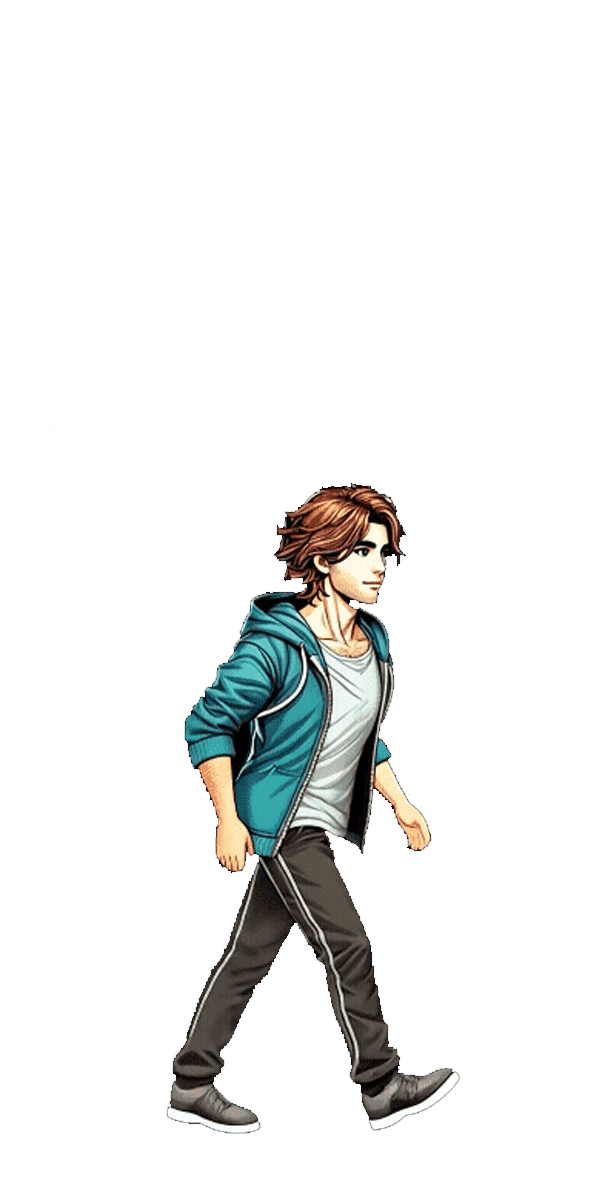
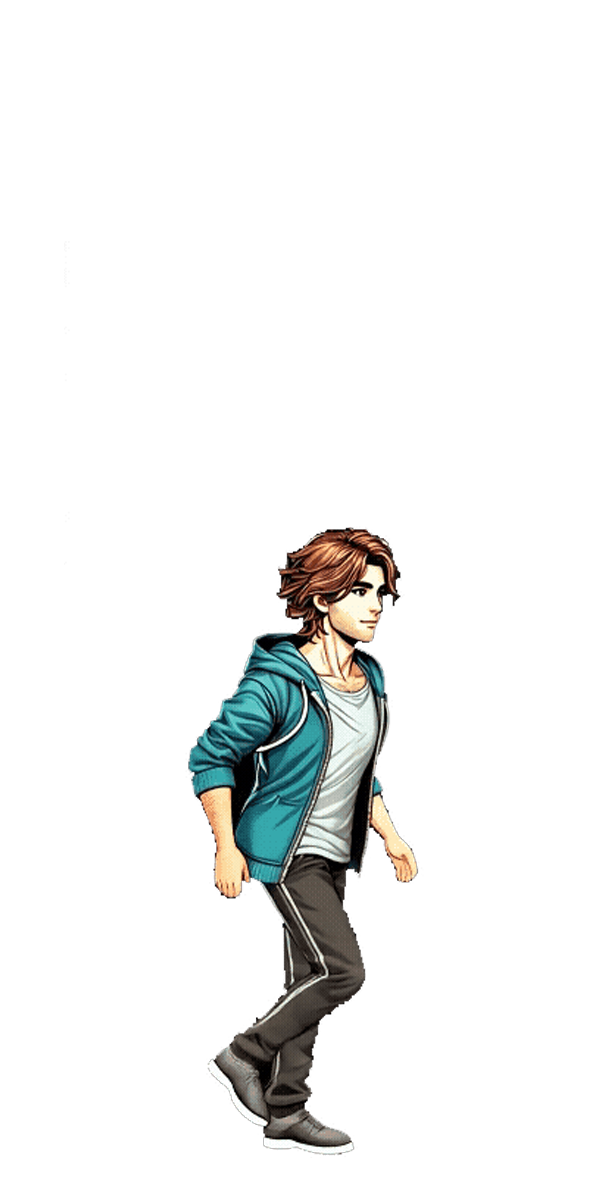
first charakter and Bug walk

Changed region(s): [[0.2803, 0.4008, 0.7475, 0.9558]]

diff --git a/models/character.class.js b/models/character.class.js
@@ -1,8 +1,43 @@
 class Character extends MovableObjects {
+    height = 250;
+    width = 110;
+    x = 120;
+    y = 180;
+    IMAGES_WALK = [
+        'img/debugger/2_character_michael/walk/w-21.png',
+        'img/debugger/2_character_michael/walk/w-22.png',
+        'img/debugger/2_character_michael/walk/w-23.png',
+        'img/debugger/2_character_michael/walk/w-24.png',
+        'img/debugger/2_character_michael/walk/w-25.png',
+        'img/debugger/2_character_michael/walk/w-26.png',
+        'img/debugger/2_character_michael/walk/w-27.png',
+        'img/debugger/2_character_michael/walk/w-28.png',
+        'img/debugger/2_character_michael/walk/w-29.png',
+        'img/debugger/2_character_michael/walk/w-30.png',
+        'img/debugger/2_character_michael/walk/w-31.png',
+        'img/debugger/2_character_michael/walk/w-32.png',
+        'img/debugger/2_character_michael/walk/w-33.png',
+        'img/debugger/2_character_michael/walk/w-34.png',
+        'img/debugger/2_character_michael/walk/w-35.png',
+        'img/debugger/2_character_michael/walk/w-36.png',
+        'img/debugger/2_character_michael/walk/w-37.png',
+    ];
 
     constructor() {
         super().loadImage('img/debugger/2_character_michael/walk/w-21.png');
+        this.loadImages(this.IMAGES_WALK);
         
+        this.animate();
+    }
+
+    animate() {
+        setInterval(() => {
+            let i = this.currentImage % this.IMAGES_WALK.length;
+            let path = this.IMAGES_WALK[i];
+            this.img = this.imageCache[path];
+            this.currentImage++;
+        }, 1000 / 20);
+
     }
 
     jump() {

diff --git a/models/bug.class.js b/models/bug.class.js
@@ -1,11 +1,28 @@
 class Bug extends MovableObjects {
-    y = 370;
-    height = 50;
-    width = 50;
+    y = 380;
+    height = 40;
+    width = 40;
+    IMAGES_WALK = [
+        'img/debugger/3_enemies_bug/bug_w_21.png',
+        'img/debugger/3_enemies_bug/bug_w_22.png',
+    ]
 
     constructor() {
         super().loadImage('img/debugger/3_enemies_bug/bug_w_21.png');
+        this.loadImages(this.IMAGES_WALK);
         this.x = 200 + Math.random() * 500;
+        this.speed = 0.3 + Math.random() * 1.0;
+        this.animate();
     }
+    
+    animate() {
+        this.moveLeft();
+        setInterval(() => {
+            let i = this.currentImage % this.IMAGES_WALK.length;
+            let path = this.IMAGES_WALK[i];
+            this.img = this.imageCache[path];
+            this.currentImage++;
+        }, 1000 / 20);
 
+    }
 }

diff --git a/models/movable_objects.class.js b/models/movable_objects.class.js
@@ -1,13 +1,24 @@
 class MovableObjects {
-    x = 120;
-    y = 250;
     img;
     height = 180;
     width = 100;
+    imageCache = {};
+    currentImage = 0;
+    speed = 0.2;
 
     loadImage(path) {
         this.img = new Image();
         this.img.src = path;
+    }
+
+    /**@param {Array} arr*/
+
+    loadImages(arr) {
+        arr.forEach((path) => {
+            let img = new Image();
+            img.src = path;
+            this.imageCache[path] = img;
+        });
     }
 
     moveRight() {
@@ -15,5 +26,11 @@ class MovableObjects {
     }   
     moveLeft() {
         console.log('move left');
+    }
+ 
+    moveLeft() {
+        setInterval(() => {
+            this.x -= this.speed;
+        }, 1000 / 60);
     }
 }

diff --git a/js/game.js b/js/game.js
@@ -1,5 +1,6 @@
 let canvas;
 let world;
+let keyboard = new Keyboard();
 
 function init() {
   canvas = document.getElementById('canvas');
@@ -7,3 +8,22 @@ function init() {
 
   console.log('My character is', world.character);
 }
+
+window.addEventListener('keydown', (e) => {
+  if (e.code === 39) {
+    keyboard.RIGHT = true;
+  } 
+  if (e.code === 37) {
+    keyboard.LEFT = true;
+  }
+  if (e.code === 38) {
+    keyboard.UP = true;
+  }
+  if (e.code === 40) {
+    keyboard.DOWN = true;
+  }
+  if (e.code === 32) {
+    keyboard.SPACE = true;
+  }
+  console.log(e);
+});

diff --git a/index.html b/index.html
@@ -11,6 +11,7 @@
     <script src="./models/cloud.class.js"></script>
     <script src="./models/world.class.js"></script>
     <script src="./models/background_object.class.js"></script>
+    <script src="./models/keyboard.class.js"></script>
     <script src="./js/game.js"></script>
 </head>
 <body onload="init()">

diff --git a/models/cloud.class.js b/models/cloud.class.js
@@ -6,5 +6,10 @@ class Cloud extends MovableObjects {
     constructor() {
         super().loadImage('img/5_background/layers/4_clouds/1.png');
         this.x = Math.random() * 500;
+        this.animate();
+    }
+
+    animate() {
+        this.moveLeft();
     }
 }

diff --git a/models/world.class.js b/models/world.class.js
@@ -4,6 +4,8 @@ class World {
         new Bug(),
         new Bug(),
         new Bug(),
+        new Bug(),
+        new Bug(),
     ];
     clouds = [
         new Cloud(),

diff --git a/models/keyboard.class.js b/models/keyboard.class.js
@@ -1,0 +1,7 @@
+class Keyboard {
+    LEFT = false;
+    RIGHT = false;
+    UP = false;
+    DOWN = false;
+    SPACE = false;
+}
